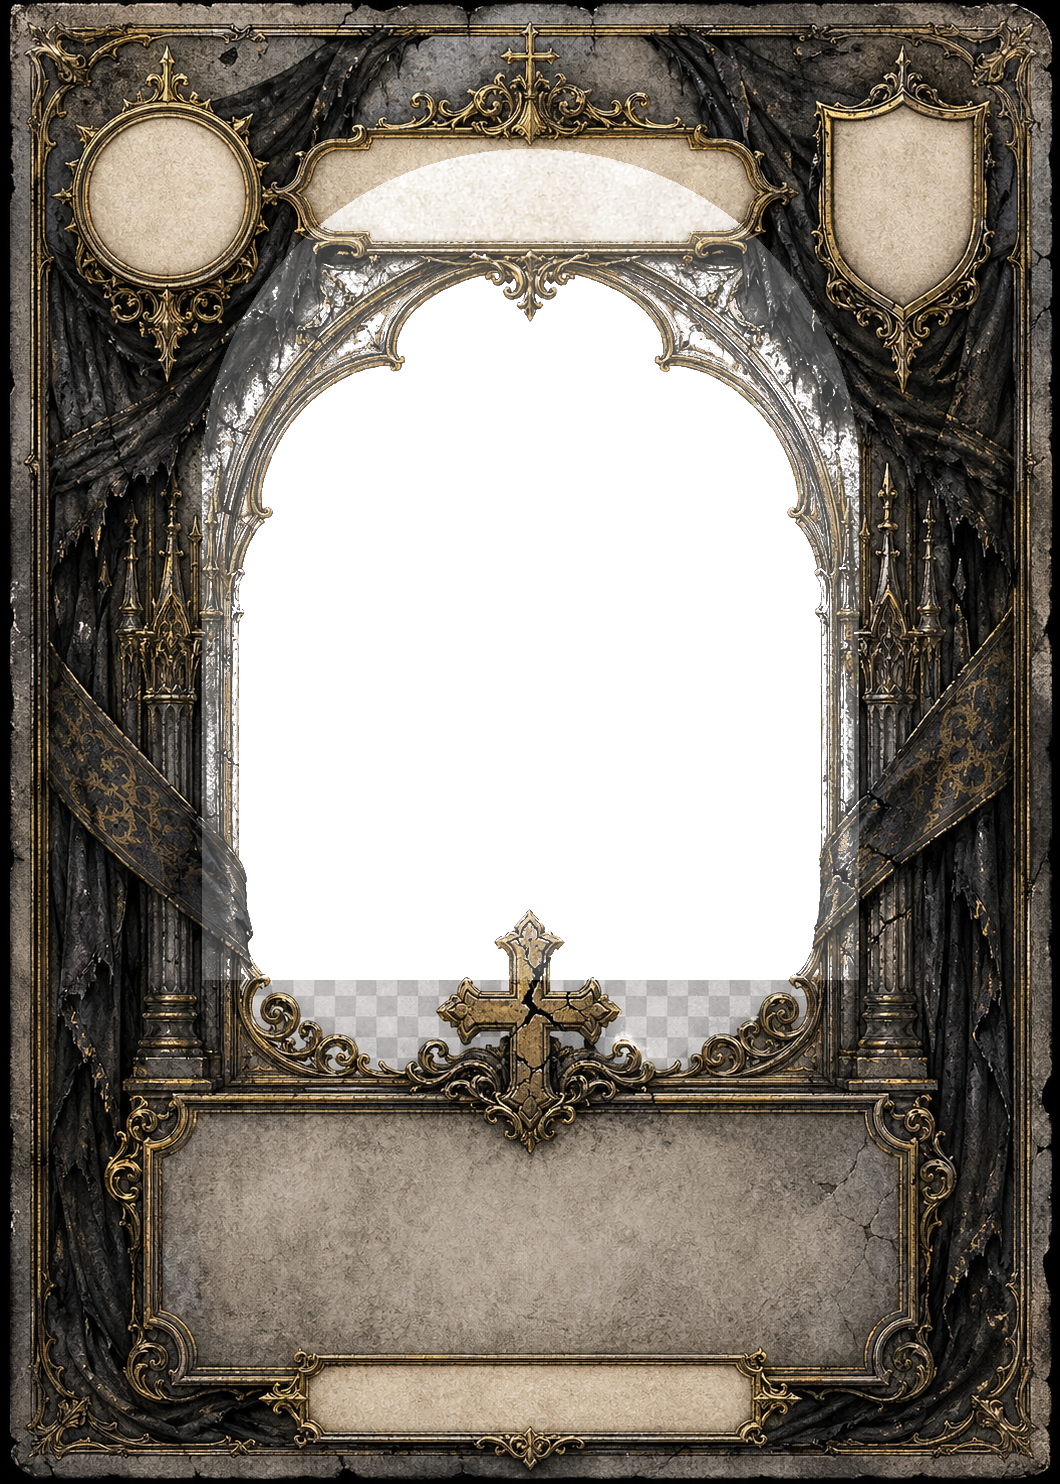
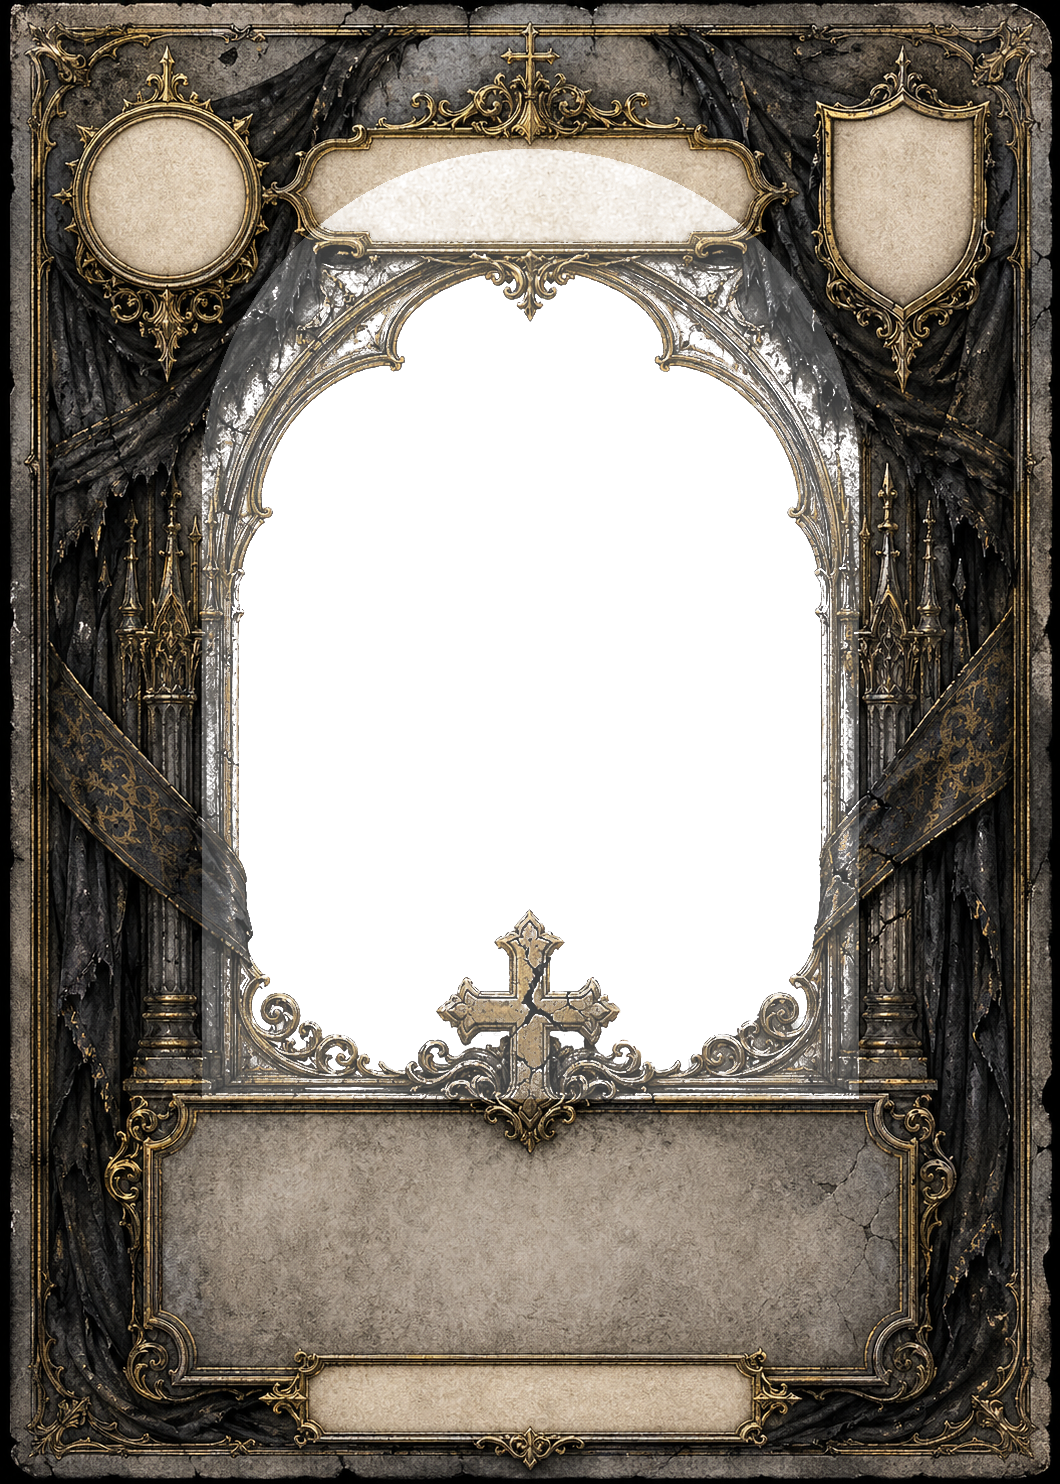
Templates : zone transparente arche étendue (ARCH_BOTTOM 0.66 → 0.74)
Pour que l'illustration remplisse jusqu'au bas de l'arche visible.

https://claude.ai/code/session_011baaC7zEExbd5eSjuzVu4k

Changed region(s): [[0.1868, 0.6509, 0.8094, 0.7439]]

diff --git a/tools/extract_arch_alpha.py b/tools/extract_arch_alpha.py
@@ -22,7 +22,7 @@ import numpy as np
 # extending downward. Tweak per-template if the arch layout shifts.
 ARCH_CX, ARCH_CY = 0.50, 0.32
 ARCH_RX, ARCH_RY = 0.31, 0.22
-ARCH_BOTTOM = 0.66
+ARCH_BOTTOM = 0.74
 
 
 def process(in_path: str, out_path: str) -> None:
